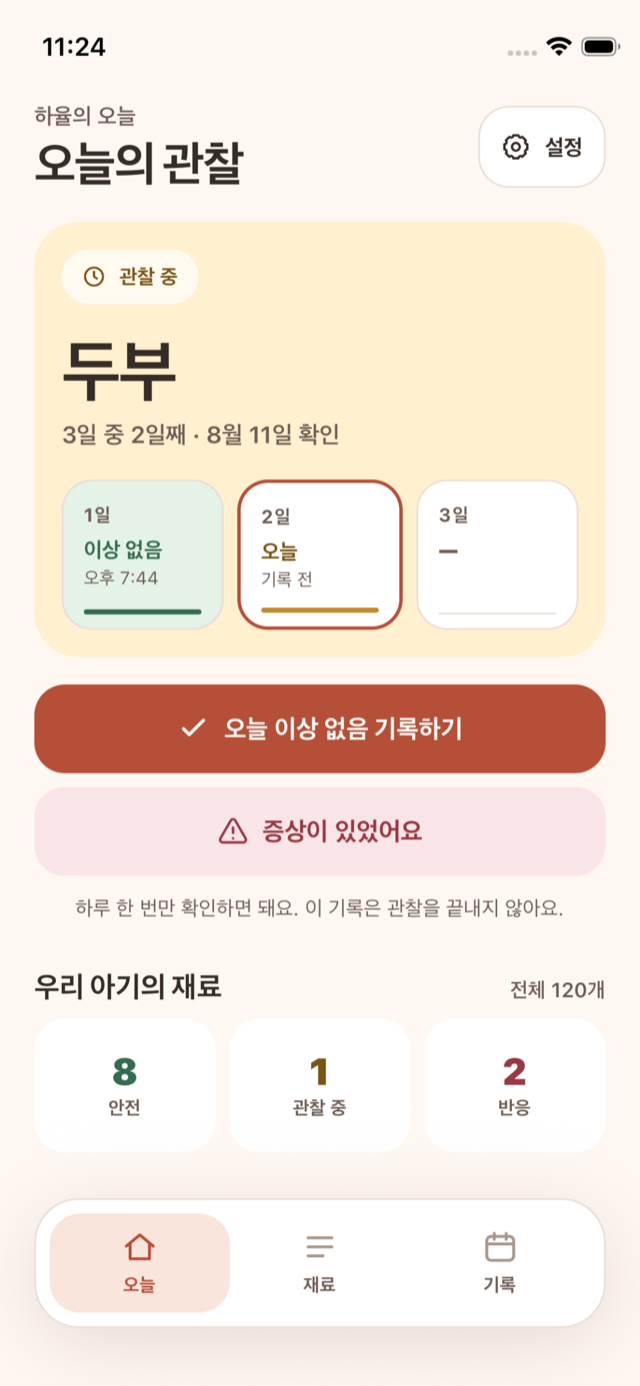
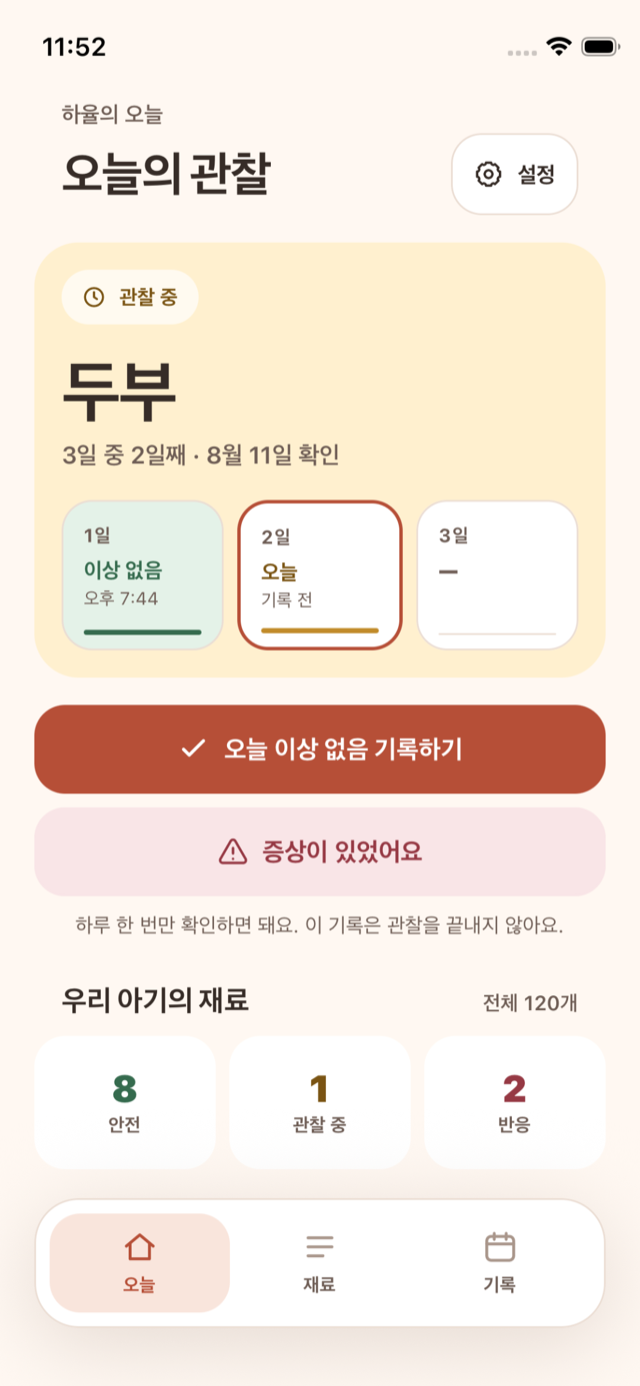
fix: align home content grid

Changed region(s): [[0.0312, 0.031, 0.9688, 0.8377], [0.6562, 0.3413, 0.9062, 0.4033], [0.4688, 0.7446, 0.5312, 0.8377]]

diff --git a/app/index.tsx b/app/index.tsx
@@ -103,11 +103,14 @@ function Dashboard({ babyName }: { babyName: string | null }) {
         style={{ flex: 1 }}
         contentContainerStyle={{ paddingHorizontal: layout.screenInset, paddingTop: insets.top + 8, paddingBottom: 24 }}
       >
-        <ScreenHeader
-          eyebrow={babyName ? t('home.greetingName', { name: babyName }) : t('home.greeting')}
-          title={t('home.todayTitle')}
-          right={<HeaderButton label={t('settings.title')} onPress={() => router.push('/settings')} />}
-        />
+        <View style={{ paddingHorizontal: layout.cardPadding }}>
+          <ScreenHeader
+            eyebrow={babyName ? t('home.greetingName', { name: babyName }) : t('home.greeting')}
+            title={t('home.todayTitle')}
+            right={<HeaderButton label={t('settings.title')} onPress={() => router.push('/settings')} />}
+            alignRightWithTitle
+          />
+        </View>
 
         <WarmCard tone={tone}>
           <View style={{ alignSelf: 'flex-start', minHeight: 32, paddingHorizontal: spacing.sm, borderRadius: radii.pill, flexDirection: 'row', alignItems: 'center', gap: spacing.xs, backgroundColor: 'rgba(255,255,255,0.68)' }}>
@@ -166,7 +169,11 @@ function Dashboard({ babyName }: { babyName: string | null }) {
           </WarmCard>
         )}
 
-        <SectionHeaderRow title={t('home.ourFoods')} meta={t('home.totalFoods', { count: foods.length })} />
+        <SectionHeaderRow
+          title={t('home.ourFoods')}
+          meta={t('home.totalFoods', { count: foods.length })}
+          style={{ paddingHorizontal: layout.cardPadding }}
+        />
         <View style={{ flexDirection: 'row', gap: spacing.xs }}>
           {(['safe', 'testing', 'reacted'] as const).map((status) => (
             <Pressable

diff --git a/src/ui/ScreenHeader.tsx b/src/ui/ScreenHeader.tsx
@@ -4,11 +4,26 @@ import { Icon } from './Icon';
 import { press } from './pressable';
 import { colors, layout, radii, spacing, typeStyles } from './tokens';
 
-export function ScreenHeader({ title, eyebrow, right }: {
+export function ScreenHeader({ title, eyebrow, right, alignRightWithTitle = false }: {
   title: string;
   eyebrow?: string;
   right?: ReactNode;
+  alignRightWithTitle?: boolean;
 }) {
+  if (eyebrow && right && alignRightWithTitle) {
+    return (
+      <View style={{ marginBottom: spacing.md }}>
+        <Text style={{ ...typeStyles.screenEyebrow, color: colors.inkSecondary, marginBottom: 2 }}>{eyebrow}</Text>
+        <View style={{ minHeight: layout.touchTarget, flexDirection: 'row', alignItems: 'center', justifyContent: 'space-between', gap: spacing.sm }}>
+          <Text accessibilityRole="header" style={{ flexShrink: 1, ...typeStyles.screenTitle, color: colors.ink }}>
+            {title}
+          </Text>
+          {right}
+        </View>
+      </View>
+    );
+  }
+
   return (
     <View style={{ minHeight: 56, flexDirection: 'row', alignItems: 'center', justifyContent: 'space-between', gap: spacing.sm, marginBottom: spacing.md }}>
       <View style={{ flexShrink: 1 }}>

diff --git a/src/ui/SectionHeaderRow.tsx b/src/ui/SectionHeaderRow.tsx
@@ -12,7 +12,7 @@ export function SectionHeaderRow({ title, meta, style }: {
         {
           minHeight: 24,
           flexDirection: 'row',
-          alignItems: 'flex-end',
+          alignItems: 'baseline',
           justifyContent: 'space-between',
           gap: spacing.sm,
           marginTop: spacing.lg,
